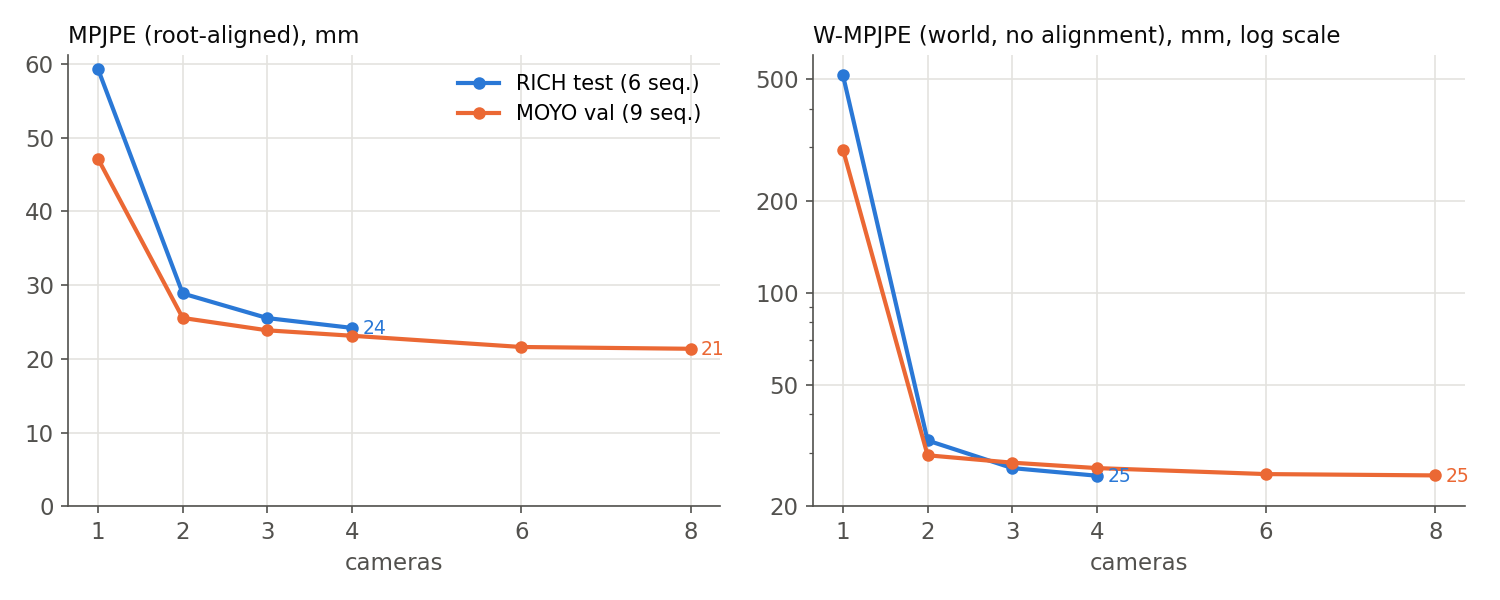
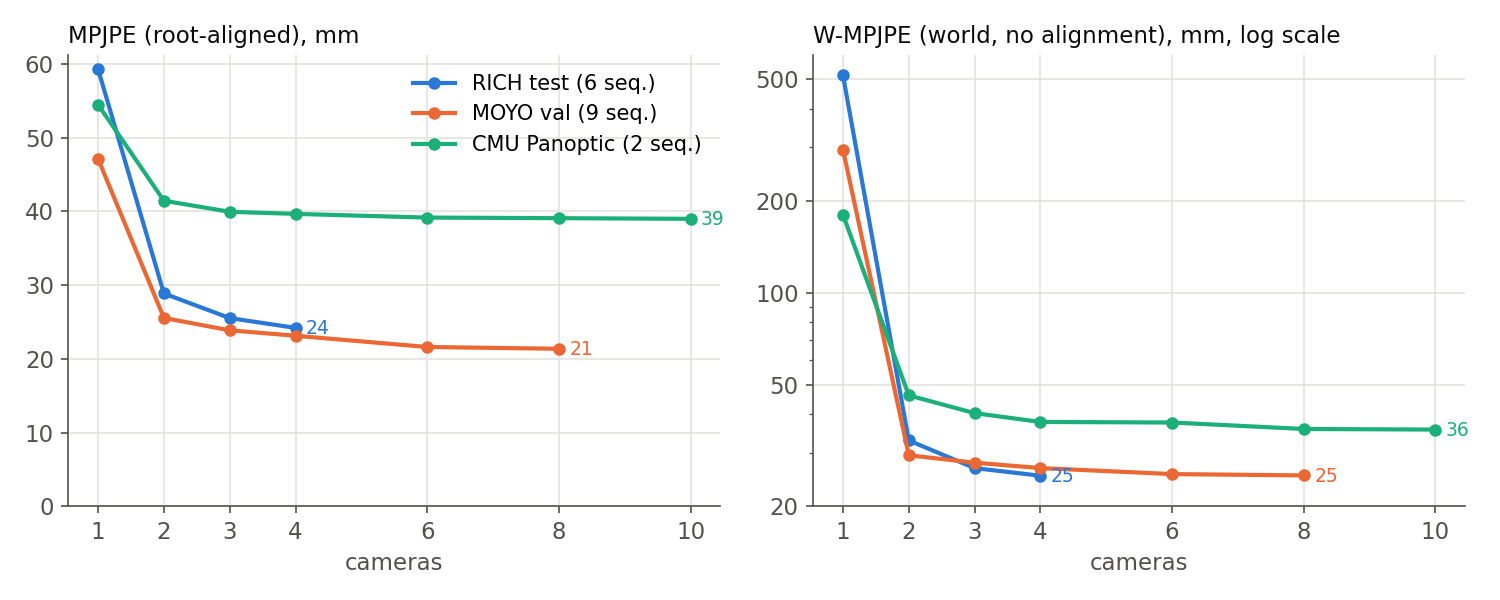
docs: multiview "More cameras" adds CMU Panoptic

diff --git a/docs/multiview.md b/docs/multiview.md
@@ -93,6 +93,7 @@ MPJPE root-aligned at the mid-hip, W-MPJPE in the dataset's world without any al
 |---|---|---|---|
 | RICH test, 6 sequences, 30 fps | 4 | 59.3 / 28.9 / 25.5 / 24.2 / 24.2 | 514 / 32.8 / 26.7 / 25.2 / 25.2 |
 | MOYO val, 9 sequences, 3 fps | 8 | 47.1 / 25.6 / 23.9 / 23.1 / 21.4 | 294 / 29.4 / 27.8 / 26.7 / 25.2 |
+| CMU Panoptic, 2 sequences, 30 fps | 10 | 54.5 / 41.5 / 40.0 / 39.7 / 39.0 | 180 / 46.1 / 40.4 / 37.8 / 35.7 |
 
 - One camera recovers the pose well but not its place: the world error is the monocular depth error, up to metres for
   people far from the camera. A second camera removes most of it.
@@ -100,6 +101,9 @@ MPJPE root-aligned at the mid-hip, W-MPJPE in the dataset's world without any al
   MPJPE against 25.6 mm for random pairs. Cameras 60-120 degrees apart work best.
 - Ground truth: RICH's SMPL-X fits mapped to SMPL topology with MHR's public SMPL-X -> MHR -> SMPL maps; MOYO's SMPL
   fits. RICH's floor comes from a plane fit to the scene scan; MOYO's frames are its released every-10th-frame set.
+- CMU Panoptic's ground truth is 3D keypoints, so its rows score 13 joints (hips, knees, ankles, neck, shoulders, elbows,
+  wrists) of the predicted SMPL skeleton against them by name; its plateau includes the 1-5 cm offset between the two
+  joint definitions. Its sequences have cameras all around the person (a one-sided rig is left out of the pooled row).
 
 ## Outputs
 
